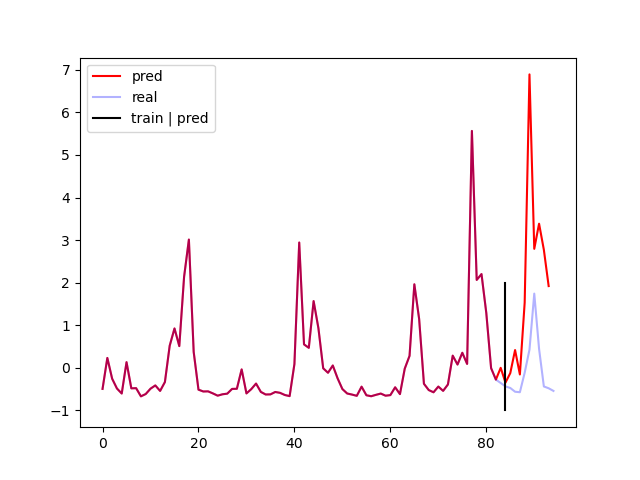
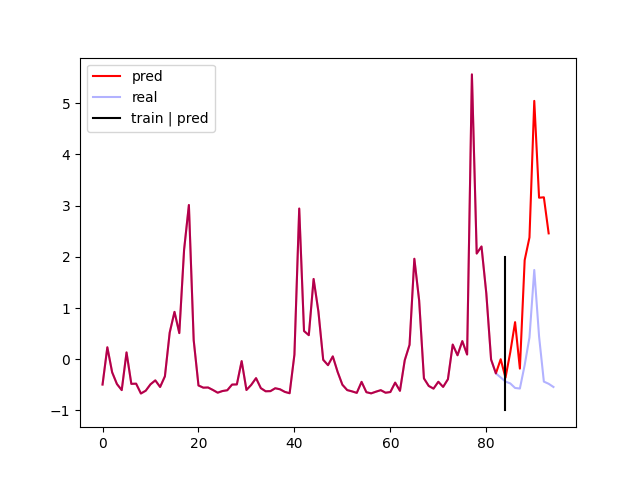
20210502

diff --git a/径流/月尺度/97-04月度径流预测.py b/径流/月尺度/97-04月度径流预测.py
@@ -115,7 +115,7 @@ def run_train_lstm():
 
     '''eval'''
     net.load_state_dict(torch.load('{}/net.pth'.format(mod_dir),
-                                   map_location=lambda storage, loc: storage))
+                        map_location=lambda storage, loc: storage))
     net = net.eval()
 
     test_x = data_x.copy()
@@ -130,7 +130,8 @@ def run_train_lstm():
 
     '''elegant way but slightly complicated'''
     eval_size = 1
-    zero_ten = torch.zeros((mid_layers, eval_size, mid_dim), dtype=torch.float32, device=device)
+    zero_ten = torch.zeros((mid_layers, eval_size, mid_dim),
+                           dtype=torch.float32, device=device)
     test_y, hc = net.output_y_hc(test_x[:train_size], (zero_ten, zero_ten))
     test_x[train_size + 1, 0, 0] = test_y[-1]
     for i in range(train_size + 1, len(data) - 2):
@@ -146,7 +147,8 @@ def run_train_lstm():
 
     plt.plot(pred_y, 'r', label='pred')
     plt.plot(data_y, 'b', label='real', alpha=0.3)
-    plt.plot([train_size, train_size], [-1, 2], color='k', label='train | pred')
+    plt.plot([train_size, train_size], [-1, 2],
+             color='k', label='train | pred')
     plt.legend(loc='best')
     plt.savefig('lstm_9704_月尺度.png')
     plt.pause(4)
@@ -179,7 +181,10 @@ def load_my_data():
                     tmp += data[cnt][2]
                     cnt += 1
                 # newData.append([tmp / seq_day_p[j], i, j])
-                newData[cnt1][0] = tmp / seq_day_p[j]
+                # 月总流量/月的天数
+                # newData[cnt1][0] = tmp / seq_day_p[j]
+                # 月总流量
+                newData[cnt1][0] = tmp
                 cnt1 += 1
     # print(newData)
 

diff --git a/径流/yuan.py b/径流/yuan.py
@@ -15,8 +15,6 @@ code-of-learn-deep-learning-with-pytorch/blob/master/
 chapter5_RNN/time-series/lstm-time-series.ipynb
 """
 
-LSTM、Attention、Transformor
-
 
 def run_train_gru():
     inp_dim = 3
